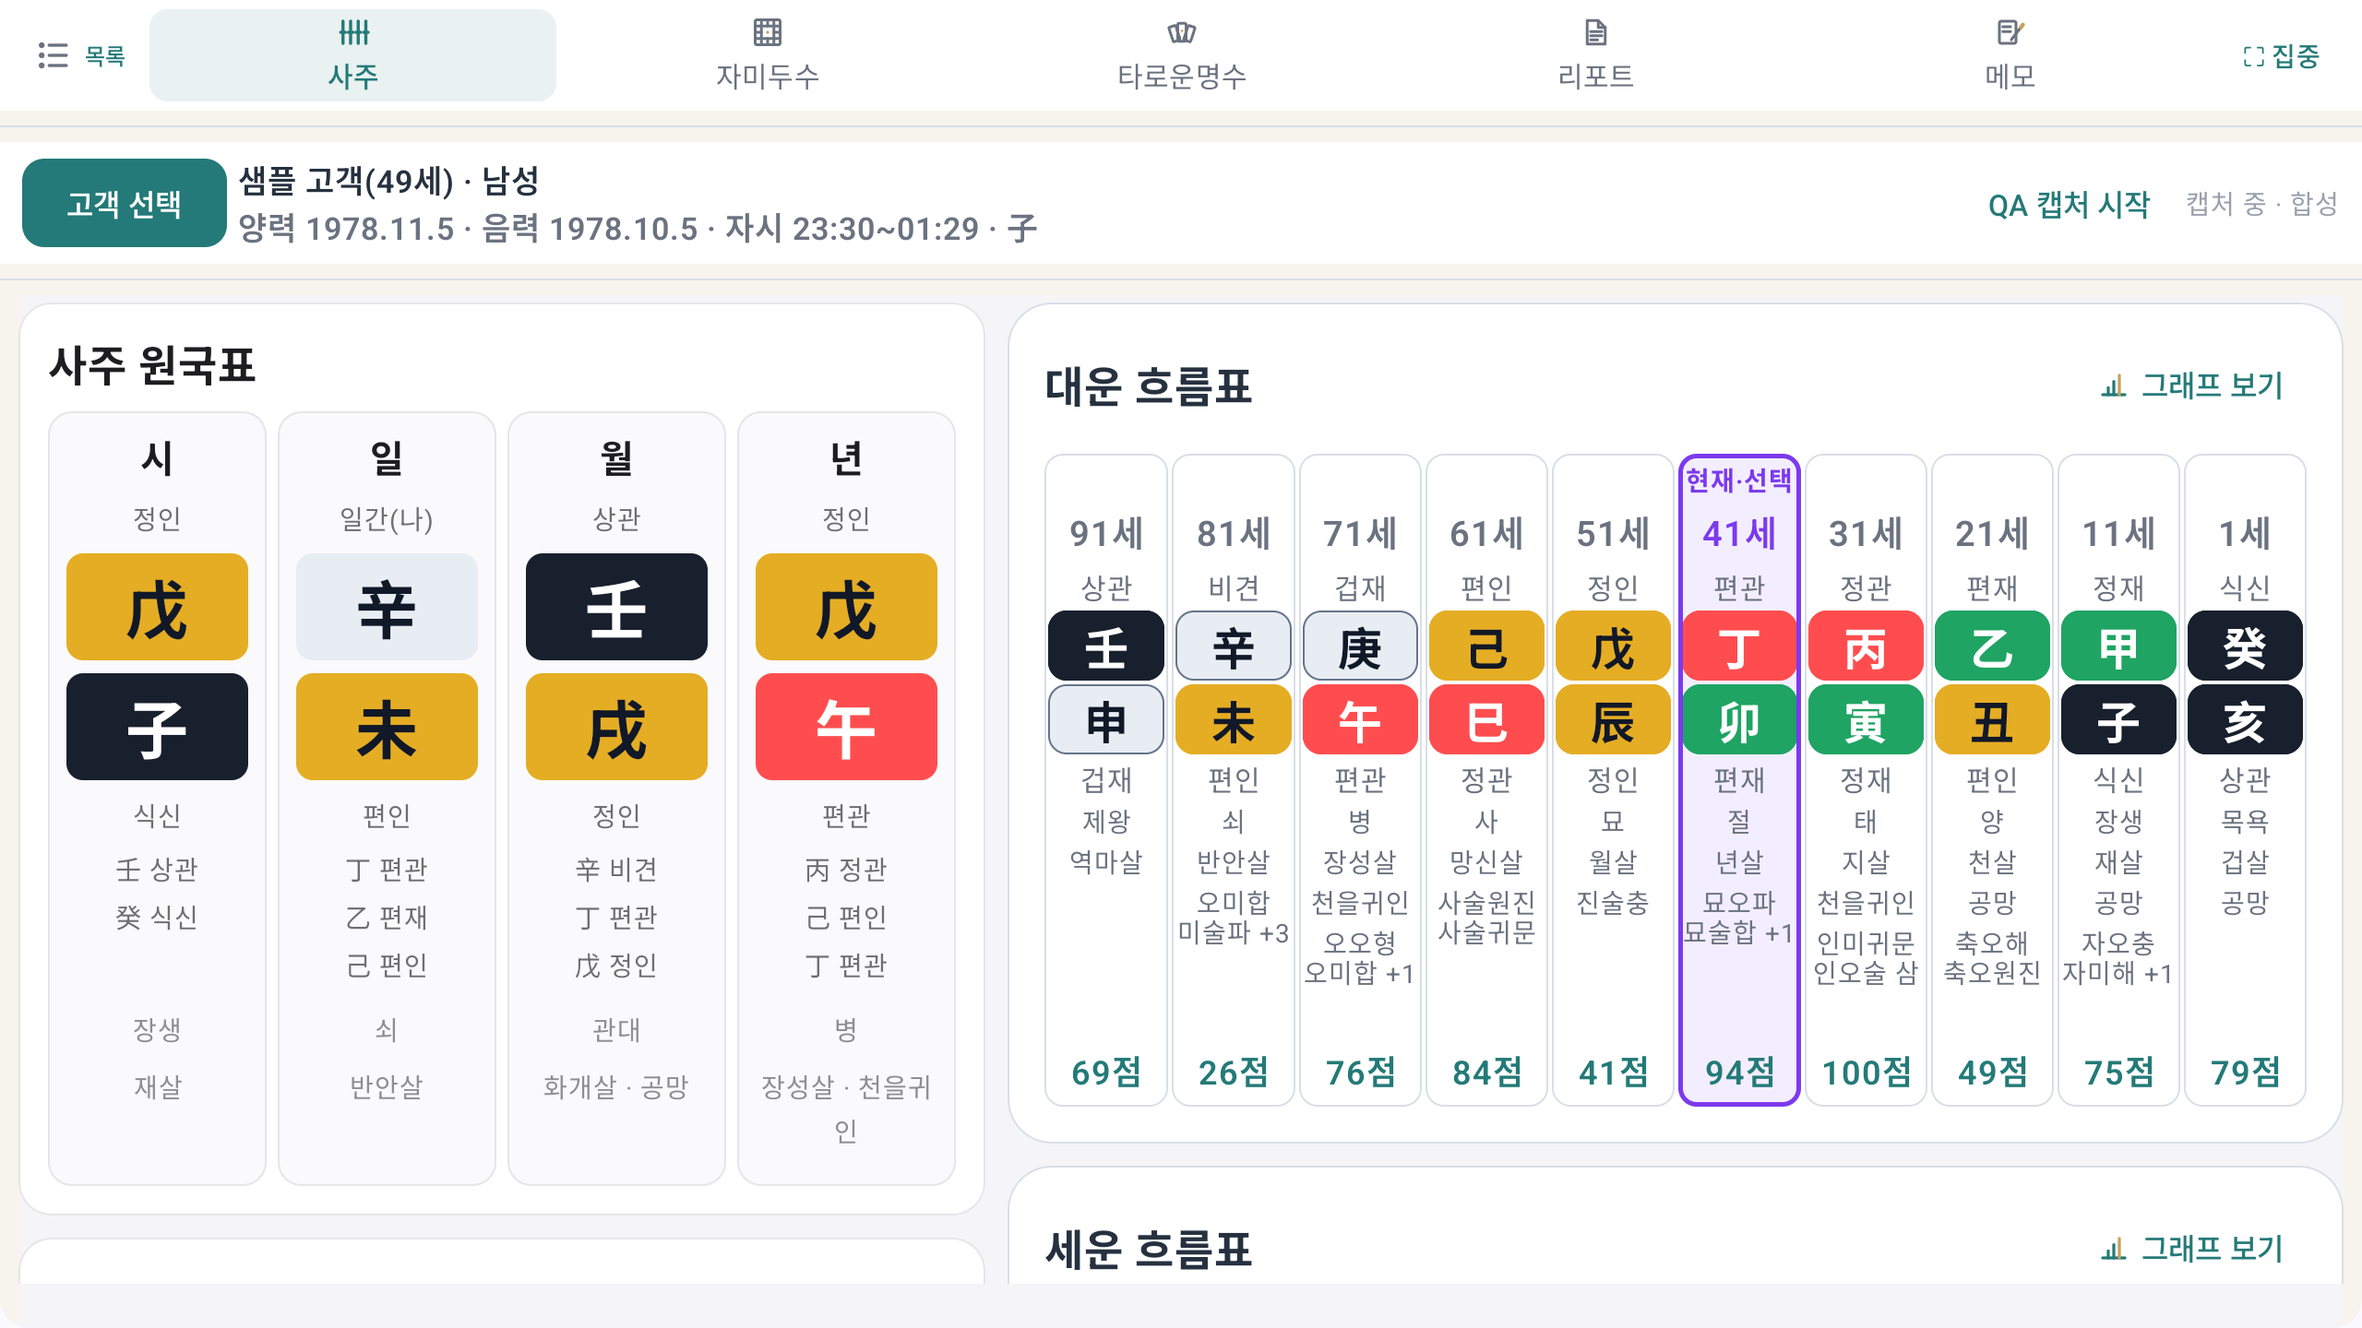
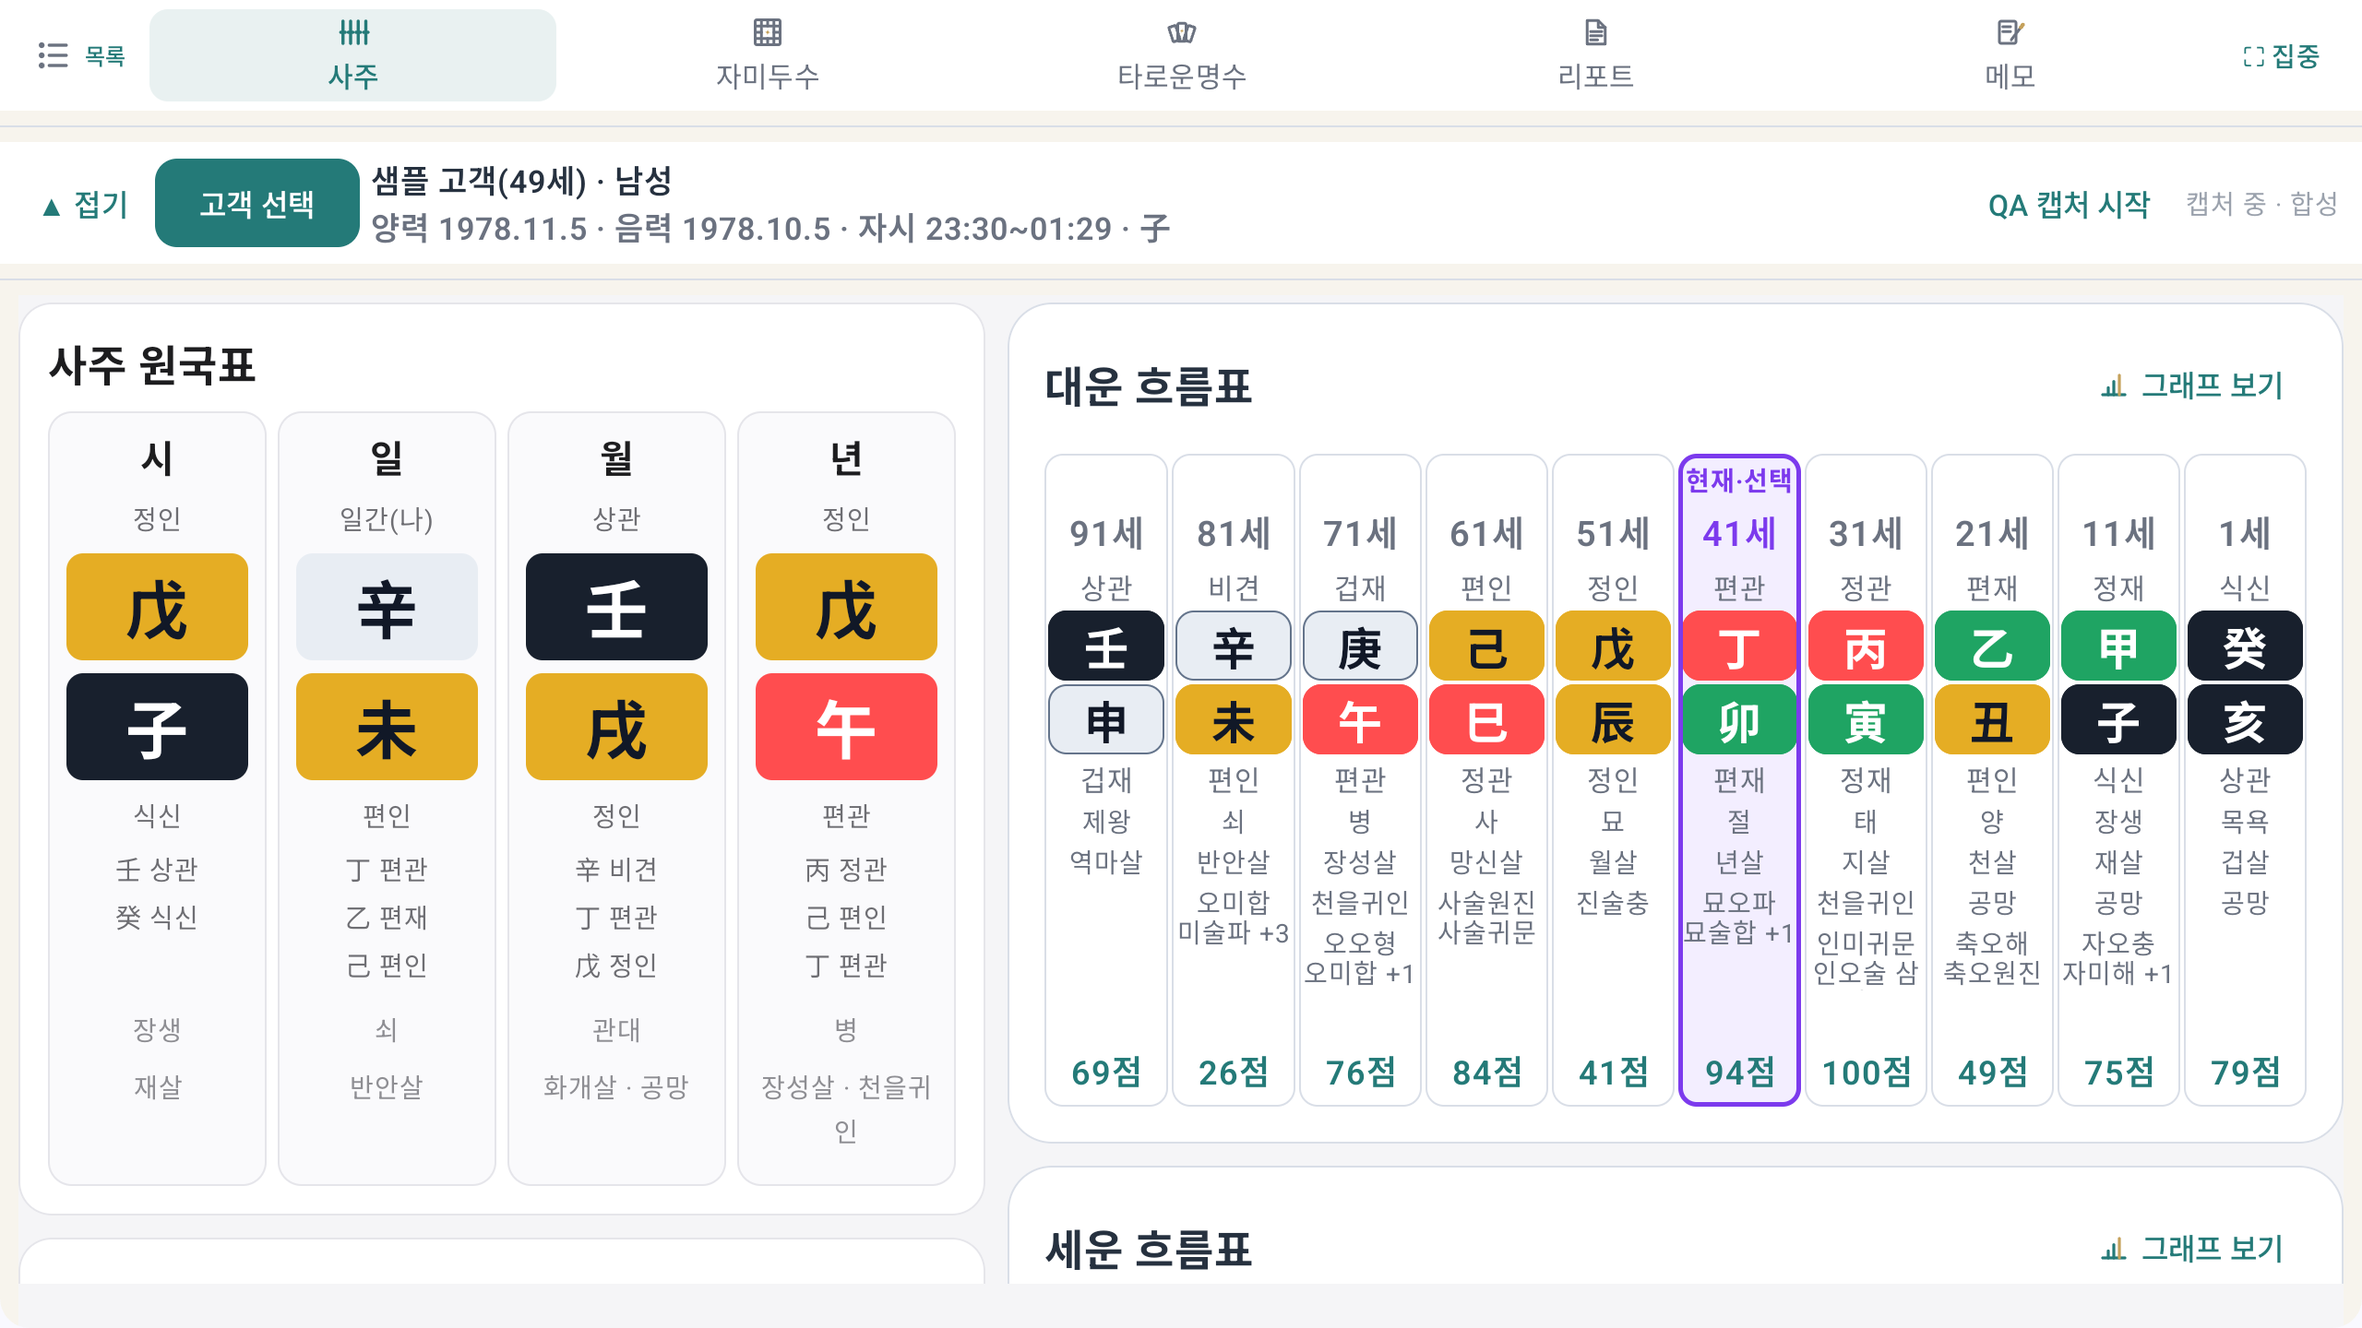
site: 앱 캡처 4장 교체 + 키오스크 2장 신설 + 거치대 목업(CSS) (SITE-APPLY)
## 앱 캡처 4장 — 지금 판으로 다시 찍었다

전부 **같은 사주 하나**로 찍었다 — 「샘플 고객」(1978-11-05 · 子시 · 남성,
`SamplePreviewCustomer` 의 소유자 확정값)이고 대운이 **41세 丁卯 94점**으로
기존 캡처와 같다. 코드에 박힌 합성 표본이라 개인정보가 없다.

무엇이 달라졌나:
 · 대운 그래프가 **꺾은선 → 단조 3차 곡선**(Fritsch–Carlson)
 · 명반 칩 색이 **밝은 판으로 원복**(金 밝은 회색 · 水 검정 · 土 금색)
 · 결과지 강조선이 **점수 숫자를 관통하지 않는다**
 · 점수선 4dp · #3671B8 로 화면·종이 통일

🔴 **site_01 은 px 가 바뀐다 — 1148×1354 → 1440×1962.**
옛 값은 팝업 폭 버그(`usePlatformDefaultWidth` 가 창 폭을 화면 최소변으로
잡던 것)가 있던 시절의 574dp 다. 그 버그를 고쳐 폭이 720dp 가 되었으므로
지금 앱에서는 옛 px 가 나오지 않는다. 잘라내면 내용이 잘리고 줄이면 흐려져
**실측 크기를 채택**하고 3개 언어의 `<img width/height>` 를 함께 고쳤다.
나머지 셋은 규격이 그대로다(2560×1440 · 2560×1440 · 3368×2380).

## 키오스크 2장 — 매장 태블릿 크기(800×1280dp = 1600×2394px)

대기화면과 오행 밸런스 결과. 손님 데이터가 아닌 합성 입력으로 찍었고
상태바·내비바를 잘라냈다.

⚠ 키오스크 표본은 앱 캡처와 **다른 사주**다(소유자 확정). 키오스크 입력
휠이 adb 로 움직이지 않아 기본값으로 진행했다 — 결과 화면의 성격을 보이는
것이 목적이라 사주 일치가 요구되지 않았다.

## 거치대 목업 — 🔴 CSS 다. 그림 파일을 만들지 않았다

「둥근 사각형 + 목 + 받침」 셋이라 `div` + `border-radius` 로 충분하다.
파일로 만들면 해상도(1x/2x) · 다크 배경용 투명 PNG · 언어별 관리가 전부
따라붙는다.

🔴 **이 구역은 배경이 검정(--ink #111)이라 `--gold-ink` 를 쓰지 않았다** —
그 값(#8A7140)은 흰 배경 위 글자 전용이고 검정 위에서는 4.06:1 로 떨어진다.
`.store` 가 이미 쓰는 흰색 알파 계열만 썼다(테두리 .28 · 목 .18 · 받침 .24).

**목업 안에 글자를 넣지 않았다** — 넣으면 3개 언어 번역이 따라붙는다.
설명은 옆 `.flow` 5단계가 그대로 맡는다.

## 배치 — 2열을 지킨다

`.store .wrap` 은 2열 그리드이고 자식이 정확히 둘이어야 한다. 그래서
`.store-right` 로 **목업 + 흐름표를 한 칸에 묶었다** — 목업을 그리드
자식으로 그냥 더하면 3열이 되어 배치가 무너진다.
820px 이하 1열 전환은 기존 미디어쿼리가 그대로 받고, 그때 거치대가 너무
커지지 않도록 `.stands` 에 max-width 만 걸었다.
[…]

Changed region(s): [[0.0, 0.0938, 0.5, 0.1875]]

diff --git a/ja/index.html b/ja/index.html
@@ -39,7 +39,7 @@
 <span class="cta is-disabled" role="link" aria-disabled="true">Google Play にて公開予定 <small>リリース記念価格</small></span>
 <p class="pricenote">ダウンロードは無料です。アプリ内で一度購入すれば、そのまま使い続けられます。サブスクリプションではありません。<br>リリースを記念して、通常価格より低い価格から始めます。</p>
 <p class="uinote">アプリ画面は現在韓国語です。日本語UIは準備中です。</p>
-<div class="hero-device graph"><picture><source srcset="../assets/img/site_01_hero_graph.webp" type="image/webp"><img class="shot" src="../assets/img/site_01_hero_graph.png" alt="ジナゼン運勢グラフの大運グラフ — 1歳から91歳までの十の大運の点数を結ぶ折れ線。現在の大運（41歳・丁卯・94点）が示されている" width="1148" height="1354"></picture></div>
+<div class="hero-device graph"><picture><source srcset="../assets/img/site_01_hero_graph.webp" type="image/webp"><img class="shot" src="../assets/img/site_01_hero_graph.png" alt="ジナゼン運勢グラフの大運グラフ — 1歳から91歳までの十の大運の点数を結ぶ折れ線。現在の大運（41歳・丁卯・94点）が示されている" width="1440" height="1962"></picture></div>
 </div></section>
 
 <section class="pad usp"><div class="wrap">
@@ -112,13 +112,18 @@
 <div><h2>店舗には<b>ジナゼン マインドマップソリューション</b></h2>
 <p>キオスクでレポートを受け取り、相談タブレットへつながる店舗向けの構成です。イーストフレンズ 束草・永郎洞の店舗で先行運用し、全国へ広げます。</p>
 <a class="cta" href="#contact">店舗導入のお問い合わせ</a></div>
+<div class="store-right">
+<div class="stands">
+<figure class="stand"><div class="stand-screen"><picture><source srcset="../assets/img/site_05_kiosk_idle.webp" type="image/webp"><img src="../assets/img/site_05_kiosk_idle.png" alt="キオスクの待機画面 — ジナゼン運勢グラフのタイトルと、4言語で表示された「タッチして開始」の案内" width="1600" height="2394" loading="lazy" decoding="async"></picture></div><div class="stand-neck"></div><div class="stand-base"></div></figure>
+<figure class="stand"><div class="stand-screen"><picture><source srcset="../assets/img/site_06_kiosk_elements.webp" type="image/webp"><img src="../assets/img/site_06_kiosk_elements.png" alt="キオスクの五行バランス結果 — 用神「火」と木・火・土・金・水の分布、五行バランスの解説と開運法" width="1600" height="2394" loading="lazy" decoding="async"></picture></div><div class="stand-neck"></div><div class="stand-base"></div></figure>
+</div>
 <div class="flow">
 <div><span>01</span>キオスクで生年月日を入力</div>
 <div><span>02</span>お支払い後、番号札</div>
 <div><span>03</span>同じ番号のレポートを説明とともに</div>
 <div><span>04</span>東友茶 · 五行グッズ</div>
 <div><span>05</span>瞑想ルーム</div>
-</div></div></section>
+</div></div></div></section>
 
 <section class="pad about" id="company"><div class="wrap">
 <div><h2>JINAZEN</h2>

diff --git a/index.html b/index.html
@@ -39,7 +39,7 @@
      빈 링크(#)로 두지 않는 이유는, 눌러도 아무 일이 없으면 고장으로 보이기 때문이다. -->
 <span class="cta is-disabled" role="link" aria-disabled="true">Google Play 출시 예정 <small>출시 기념가</small></span>
 <p class="pricenote">다운로드는 무료이며, 앱 안에서 한 번 구매하면 계속 사용합니다. 구독이 아닙니다.<br>출시를 기념해 정상가보다 낮은 가격으로 시작합니다.</p>
-<div class="hero-device graph"><picture><source srcset="assets/img/site_01_hero_graph.webp" type="image/webp"><img class="shot" src="assets/img/site_01_hero_graph.png" alt="진아젠 운세그래프 대운 그래프 — 1세부터 91세까지 열 개 대운의 점수를 잇는 꺾은선, 현재 대운 41세 丁卯 94점이 표시돼 있다" width="1148" height="1354"></picture></div>
+<div class="hero-device graph"><picture><source srcset="assets/img/site_01_hero_graph.webp" type="image/webp"><img class="shot" src="assets/img/site_01_hero_graph.png" alt="진아젠 운세그래프 대운 그래프 — 1세부터 91세까지 열 개 대운의 점수를 잇는 꺾은선, 현재 대운 41세 丁卯 94점이 표시돼 있다" width="1440" height="1962"></picture></div>
 </div></section>
 
 <section class="pad usp"><div class="wrap">
@@ -112,13 +112,18 @@
 <div><h2>매장에는 <b>진아젠 마인드맵솔루션</b></h2>
 <p>키오스크에서 결과지를 받고, 상담 태블릿으로 이어지는 매장용 구성입니다. 이스트프렌즈 속초 영랑동 매장에서 먼저 운영하고 전국으로 넓힙니다.</p>
 <a class="cta" href="#contact">매장 도입 문의</a></div>
+<div class="store-right">
+<div class="stands">
+<figure class="stand"><div class="stand-screen"><picture><source srcset="assets/img/site_05_kiosk_idle.webp" type="image/webp"><img src="assets/img/site_05_kiosk_idle.png" alt="키오스크 대기화면 — 「명상아티스트 김진아의 진아젠 운세그래프」와 「터치해서 시작하세요」가 4개 언어로 안내된다" width="1600" height="2394" loading="lazy" decoding="async"></picture></div><div class="stand-neck"></div><div class="stand-base"></div></figure>
+<figure class="stand"><div class="stand-screen"><picture><source srcset="assets/img/site_06_kiosk_elements.webp" type="image/webp"><img src="assets/img/site_06_kiosk_elements.png" alt="키오스크 오행 밸런스 결과 — 용신 火와 목·화·토·금·수 분포, 오행 밸런스 해석과 개운법" width="1600" height="2394" loading="lazy" decoding="async"></picture></div><div class="stand-neck"></div><div class="stand-base"></div></figure>
+</div>
 <div class="flow">
 <div><span>01</span>키오스크에서 생년월일 입력</div>
 <div><span>02</span>결제 후 번호표</div>
 <div><span>03</span>같은 번호의 결과지를 설명과 함께</div>
 <div><span>04</span>일월성신 동우차 · 오행굿즈</div>
 <div><span>05</span>명상실</div>
-</div></div></section>
+</div></div></div></section>
 
 <section class="pad about" id="company"><div class="wrap">
 <div><h2>JINAZEN</h2>

diff --git a/en/index.html b/en/index.html
@@ -39,7 +39,7 @@
 <span class="cta is-disabled" role="link" aria-disabled="true">Coming soon on Google Play <small>LAUNCH PRICE</small></span>
 <p class="pricenote">The download is free. One purchase inside the app keeps it — this is not a subscription.<br>We are starting below the regular price to mark the launch.</p>
 <p class="uinote">The app interface is currently in Korean. An English UI is in preparation.</p>
-<div class="hero-device graph"><picture><source srcset="../assets/img/site_01_hero_graph.webp" type="image/webp"><img class="shot" src="../assets/img/site_01_hero_graph.png" alt="JINAZEN Fortune Graph major-luck chart — a line through ten decade scores from age 1 to 91, with the current decade (age 41, 丁卯, 94) marked" width="1148" height="1354"></picture></div>
+<div class="hero-device graph"><picture><source srcset="../assets/img/site_01_hero_graph.webp" type="image/webp"><img class="shot" src="../assets/img/site_01_hero_graph.png" alt="JINAZEN Fortune Graph major-luck chart — a line through ten decade scores from age 1 to 91, with the current decade (age 41, 丁卯, 94) marked" width="1440" height="1962"></picture></div>
 </div></section>
 
 <section class="pad usp"><div class="wrap">
@@ -112,13 +112,18 @@
 <div><h2>In stores: <b>JINAZEN Mindmap Solution</b></h2>
 <p>A kiosk hands over the report and a consultation tablet carries it on. It runs first at the East Friends store in Yeongnang-dong, Sokcho, and then spreads nationwide.</p>
 <a class="cta" href="#contact">Store enquiries</a></div>
+<div class="store-right">
+<div class="stands">
+<figure class="stand"><div class="stand-screen"><picture><source srcset="../assets/img/site_05_kiosk_idle.webp" type="image/webp"><img src="../assets/img/site_05_kiosk_idle.png" alt="Kiosk idle screen — the JINAZEN Fortune Graph title and a touch-to-begin prompt in four languages" width="1600" height="2394" loading="lazy" decoding="async"></picture></div><div class="stand-neck"></div><div class="stand-base"></div></figure>
+<figure class="stand"><div class="stand-screen"><picture><source srcset="../assets/img/site_06_kiosk_elements.webp" type="image/webp"><img src="../assets/img/site_06_kiosk_elements.png" alt="Kiosk five-element result — the governing element Fire with the wood, fire, earth, metal and water counts, a reading and remedies" width="1600" height="2394" loading="lazy" decoding="async"></picture></div><div class="stand-neck"></div><div class="stand-base"></div></figure>
+</div>
 <div class="flow">
 <div><span>01</span>Enter your birth date at the kiosk</div>
 <div><span>02</span>Pay and take a number</div>
 <div><span>03</span>Receive the matching report, with an explanation</div>
 <div><span>04</span>Dongwoo Cha teas · five-element goods</div>
 <div><span>05</span>The meditation room</div>
-</div></div></section>
+</div></div></div></section>
 
 <section class="pad about" id="company"><div class="wrap">
 <div><h2>JINAZEN</h2>

diff --git a/assets/style.css b/assets/style.css
@@ -202,6 +202,34 @@ section.pad{padding:104px 0}
 .store p{margin-top:18px;color:rgba(255,255,255,.72);font-size:15.5px;max-width:460px}
 .store .cta{border-color:rgba(255,255,255,.5);color:#fff}
 .store .cta:hover{background:#fff;color:var(--ink)}
+/* ── 거치대 목업 — **CSS 로 그린다. 그림 파일을 만들지 않는다** ─────────────
+   (소유자 확정 2026-08-28: 특정 기기가 아닌 일반적인 형태)
+
+   파일로 만들면 해상도(1x/2x) · 다크 배경용 투명 PNG · 언어별 관리가 전부
+   따라붙는다. 형태가 「둥근 사각형 + 목 + 받침」 셋뿐이라 div 로 충분하다.
+
+   🔴 이 구역은 배경이 검정(--ink #111)이다. **--gold-ink 를 쓰지 않는다** —
+   그 값(#8A7140)은 흰 배경 위 글자 전용이라 검정 위에서 대비가 나오지 않는다.
+   여기서는 .store 가 이미 쓰는 흰색 알파값 계열만 쓴다.
+
+   목업 안에 글자를 넣지 않는다 — 넣으면 3개 언어 번역이 따라붙는다.
+   화면에 들어가는 것은 캡처 이미지 하나뿐이고 설명은 옆 .flow 가 맡는다. */
+.store-right{display:flex;flex-direction:column;gap:34px}
+.stands{display:flex;gap:22px;align-items:flex-end}
+.stand{flex:1;min-width:0;display:flex;flex-direction:column;align-items:center;margin:0}
+/* 화면 — 얇은 테두리와 아주 옅은 채움. 캡처가 주인공이므로 액자는 물러선다. */
+.stand-screen{width:100%;padding:7px;border:1px solid rgba(255,255,255,.28);
+  border-radius:14px;background:rgba(255,255,255,.06);line-height:0}
+.stand-screen img{width:100%;height:auto;border-radius:8px}
+/* 목 — 화면과 받침을 잇는다. 가운데 정렬은 .stand 의 align-items 가 맡는다. */
+.stand-neck{width:14px;height:30px;background:rgba(255,255,255,.18);
+  border-radius:0 0 3px 3px}
+/* 받침 — 살짝 넓고 납작하게. 그림자 대신 폭으로 무게를 준다. */
+.stand-base{width:58%;height:9px;border-radius:999px;background:rgba(255,255,255,.24)}
+@media(max-width:820px){
+  /* 1열로 접히면 가로가 넉넉해진다 — 거치대가 지나치게 커지지 않게 묶어 둔다. */
+  .stands{max-width:420px;margin:0 auto}
+}
 .flow{border-left:1px solid rgba(255,255,255,.18);padding-left:26px}
 .flow div{padding:14px 0;border-bottom:1px solid rgba(255,255,255,.1);font-size:14.5px;color:rgba(255,255,255,.85)}
 .flow div:last-child{border-bottom:0}
